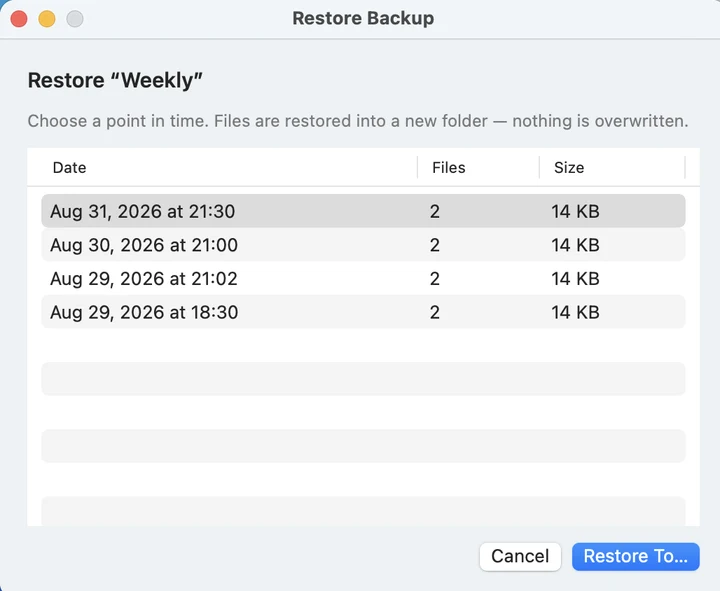
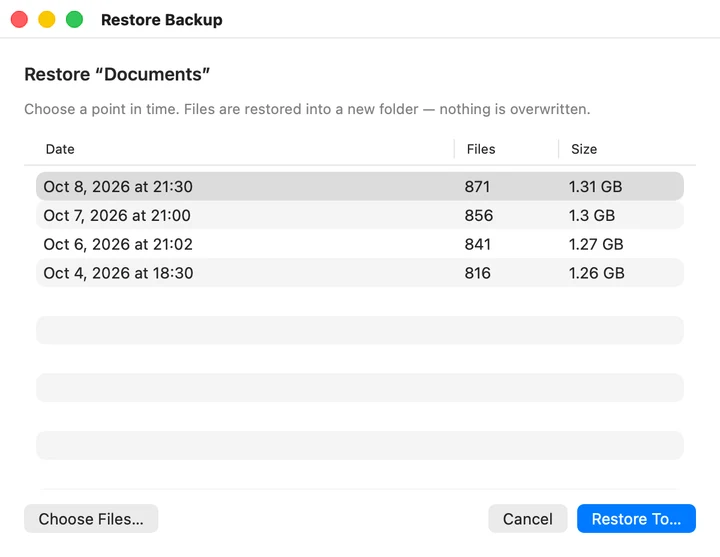
Retake the window screenshots for 0.9.2, in English and Chinese (#91)

diff --git a/design/README.md b/design/README.md
@@ -125,9 +125,10 @@ npm run demo        # the README's demo.gif, and build/demo.mp4 for posts  (need
 
 `build.mjs` writes into `Keelhaven/Assets.xcassets/`, `docs/assets/` and
 `site/public/`; `materials.mjs` writes into `docs/assets/` and `site/public/`;
-`site.mjs` copies the Newsreader files and crops the screenshots in
-`docs/assets/screenshots/` into `site/public/` (re-measure its crop boxes when a
-screenshot is re-taken).
+`site.mjs` copies the Newsreader files and the screenshots in
+`docs/assets/screenshots/` into `site/public/`, scaled to the width the page
+shows them at. The window shots go across whole; only the menu bar panel is
+cropped, out of the desktop around it (re-measure that box when it is re-taken).
 Those PNGs are committed on purpose: CI's macOS runner has no image toolchain,
 so the build must not depend on this script having run.
 
@@ -137,8 +138,15 @@ Chromium and hands the frames to ffmpeg. Steps 1 and 3 are the screenshots in
 `docs/assets/screenshots/`; step 2 is the website's own `MenuBarDemo`, taken
 from a fresh site build. So it is re-run, not re-shot: after a screenshot is
 re-taken or the popover changes, `npm run demo` brings the GIF and the film
-back in step. `npm run demo -- --lang=zh` makes the Chinese cut, once
-`wizard-zh.png` and `restore-zh.png` exist beside the English ones.
+back in step. `npm run demo -- --lang=zh` makes the Chinese cut from the
+`-zh` screenshots, into `build/` only: the README shows the English one.
+
+The screenshots come in pairs, English and `-zh`, and in two kinds. The windows
+(`wizard`, `restore`, `restore-files`, `edit-plan`) are drawn by the app itself:
+a scratch copy renders each one off screen at 2x, on sample data, so they come
+out the same whatever display is attached. The menu bar panel (`menu-bar`) is a
+capture of a real screen, because its glass is drawn by the system; take it on
+a Retina display or it comes out at half the size of the rest.
 
 `site/public/` holds a small duplicate of `docs/assets/` — the favicons, nav
 logo, `og.png`, fonts and screenshots — because VitePress serves static files only from there. It is

diff --git a/site/zh/index.md b/site/zh/index.md
@@ -167,7 +167,7 @@ const releases = computed(
 
 <ol class="kh-steps">
   <li>
-    <div class="kh-step-shot"><img src="/screenshots/wizard.webp" alt="「新建备份计划」窗口，停在询问加密备份存到哪里的那一步。" width="720" height="758" loading="lazy"></div>
+    <div class="kh-step-shot"><img src="/screenshots/wizard-zh.webp" alt="「新建备份计划」窗口，停在询问加密备份存到哪里的那一步。" width="720" height="761" loading="lazy"></div>
     <h3>1 · 建一个计划</h3>
     <p>文件夹、目的地、时间表。</p>
   </li>
@@ -177,7 +177,7 @@ const releases = computed(
     <p>绿点亮着，说明上次备份成功了。</p>
   </li>
   <li>
-    <div class="kh-step-shot"><img src="/screenshots/restore.webp" alt="「恢复备份」窗口，按日期、文件数和大小列出快照。" width="720" height="591" loading="lazy"></div>
+    <div class="kh-step-shot"><img src="/screenshots/restore-zh.webp" alt="「恢复备份」窗口，按日期、文件数和大小列出快照。" width="720" height="557" loading="lazy"></div>
     <h3>3 · 恢复任意时间点</h3>
     <p>恢复到新文件夹，不覆盖任何文件。</p>
   </li>

diff --git a/site/index.md b/site/index.md
@@ -145,7 +145,7 @@ const releases = computed(
 
 <ol class="kh-steps">
   <li>
-    <div class="kh-step-shot"><img src="/screenshots/wizard.webp" alt="The New Backup Plan window, on the step that asks where the encrypted backup should go." width="720" height="758" loading="lazy"></div>
+    <div class="kh-step-shot"><img src="/screenshots/wizard.webp" alt="The New Backup Plan window, on the step that asks where the encrypted backup should go." width="720" height="761" loading="lazy"></div>
     <h3>1 · Make a plan</h3>
     <p>Folders, destination, schedule.</p>
   </li>
@@ -155,7 +155,7 @@ const releases = computed(
     <p>A green dot means the last backup worked.</p>
   </li>
   <li>
-    <div class="kh-step-shot"><img src="/screenshots/restore.webp" alt="The Restore Backup window listing snapshots by date, file count and size." width="720" height="591" loading="lazy"></div>
+    <div class="kh-step-shot"><img src="/screenshots/restore.webp" alt="The Restore Backup window listing snapshots by date, file count and size." width="720" height="557" loading="lazy"></div>
     <h3>3 · Restore any point in time</h3>
     <p>Into a new folder. Nothing is overwritten.</p>
   </li>
